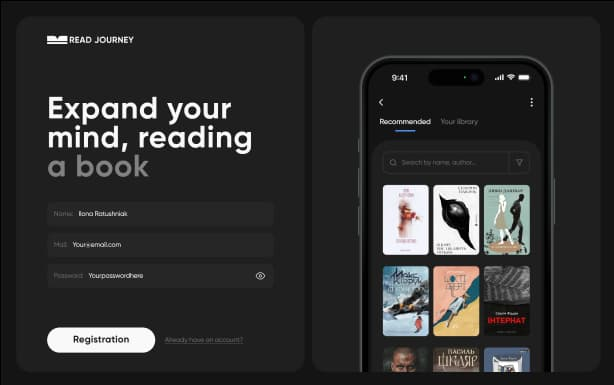
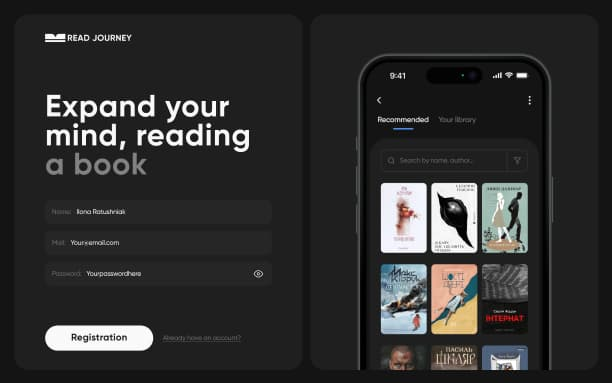
update img; desktop version

diff --git a/src/css/projects.css b/src/css/projects.css
@@ -107,8 +107,10 @@
       max-width: 375px;
     }
   }
+
   @media screen and (min-width: 768px) {
-.container {
+  
+    .container {
   max-width: 768px;
 }
 
@@ -121,6 +123,7 @@
       margin-top: 164px;
       max-width: 494px;
   }
+
   .projects-btn {
     max-width: 177px;
     padding: 18px;
@@ -133,23 +136,26 @@
   }
   
   @media screen and (min-width: 1440px) {
+
 .container {
   max-width: 1440px;
 }
+
     .projects-sections {
       display: flex;
       flex-direction: row;
-      
     } 
 
     .projects-top-section {
       height: 625px;
+      width: 688px;
     border-radius: 24px 0 0 24px;
     margin-bottom: 64px;
     }
 
     .projects-bottom-section{
       height: 625px;
+      width: 688px;
       padding: 120px 37px;
       border-radius:  0 24px 24px 0;
     }
